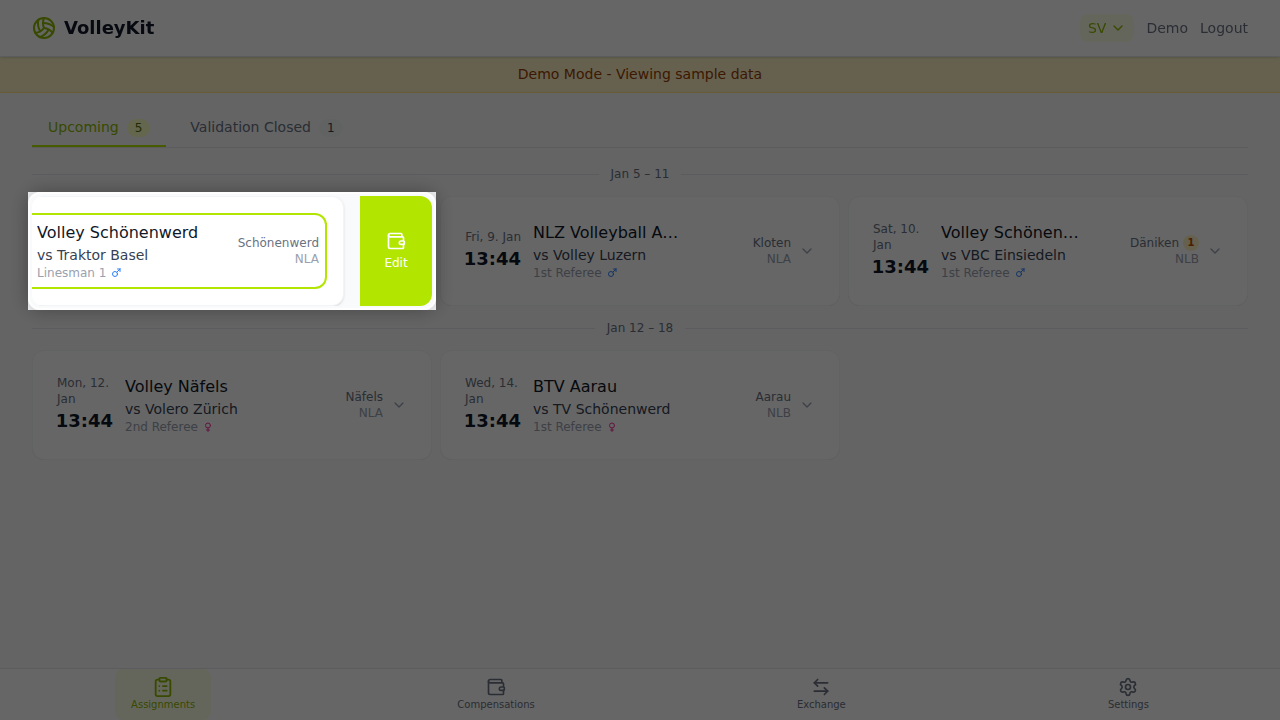
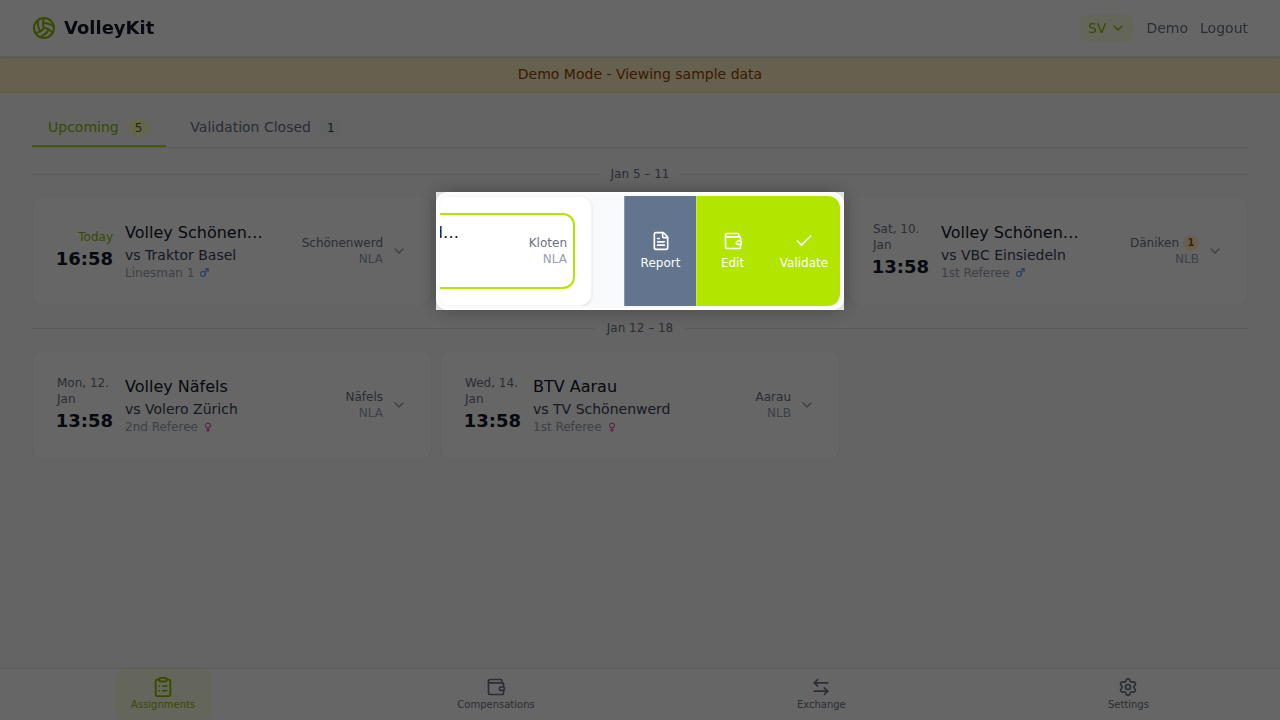
fix(help-site): use 2nd 1st-referee card for assignment-actions screenshot

Changed region(s): [[0.0, 0.2444, 0.6562, 0.4278], [0.375, 0.5806, 0.4062, 0.6111], [0.0625, 0.5806, 0.0938, 0.6111]]

diff --git a/web-app/e2e/capture-screenshots.spec.ts b/web-app/e2e/capture-screenshots.spec.ts
@@ -294,16 +294,15 @@ test.describe('Help Site Screenshots', () => {
     const assignmentsPage = new AssignmentsPage(page);
     await assignmentsPage.waitForAssignmentsLoaded();
 
-    // Find an assignment card where user is 1st referee (head-one position)
+    // Find the SECOND assignment card where user is 1st referee (head-one position)
+    // This is the middle column, top row card
     // The position label shows "1. SR" in German, "1st Referee" in English, etc.
-    const firstRefCard = page.locator('[role="group"][aria-label*="Swipeable"]')
-      .filter({ hasText: /1\. SR|1st Ref|1er arbitre|1° arbitro/i })
-      .first();
+    const firstRefCards = page.locator('[role="group"][aria-label*="Swipeable"]')
+      .filter({ hasText: /1\. SR|1st Ref|1er arbitre|1° arbitro/i });
 
-    // Fallback to first card if no 1st ref card found
-    const targetCard = await firstRefCard.isVisible().catch(() => false)
-      ? firstRefCard
-      : assignmentsPage.assignmentCards.first();
+    // Use the second 1st-ref card (index 1), fallback to first if only one exists
+    const cardCount = await firstRefCards.count();
+    const targetCard = cardCount > 1 ? firstRefCards.nth(1) : firstRefCards.first();
 
     const cardBox = await targetCard.boundingBox();
 
@@ -318,17 +317,8 @@ test.describe('Help Site Screenshots', () => {
       await page.waitForTimeout(500);
     }
 
-    // Spotlight the swipeable card container to highlight the revealed actions
-    const swipeableContainer = page.locator('[role="group"][aria-label*="Swipeable"]')
-      .filter({ hasText: /1\. SR|1st Ref|1er arbitre|1° arbitro/i })
-      .first();
-
-    // Use the first visible swipeable container if 1st ref not found
-    const spotlightTarget = await swipeableContainer.isVisible().catch(() => false)
-      ? swipeableContainer
-      : page.locator('[role="group"][aria-label*="Swipeable"]').first();
-
-    const containerSelector = await spotlightTarget.evaluate((el) => {
+    // Spotlight the same card we swiped
+    const containerSelector = await targetCard.evaluate((el) => {
       el.id = 'screenshot-target-actions';
       return '#screenshot-target-actions';
     });
